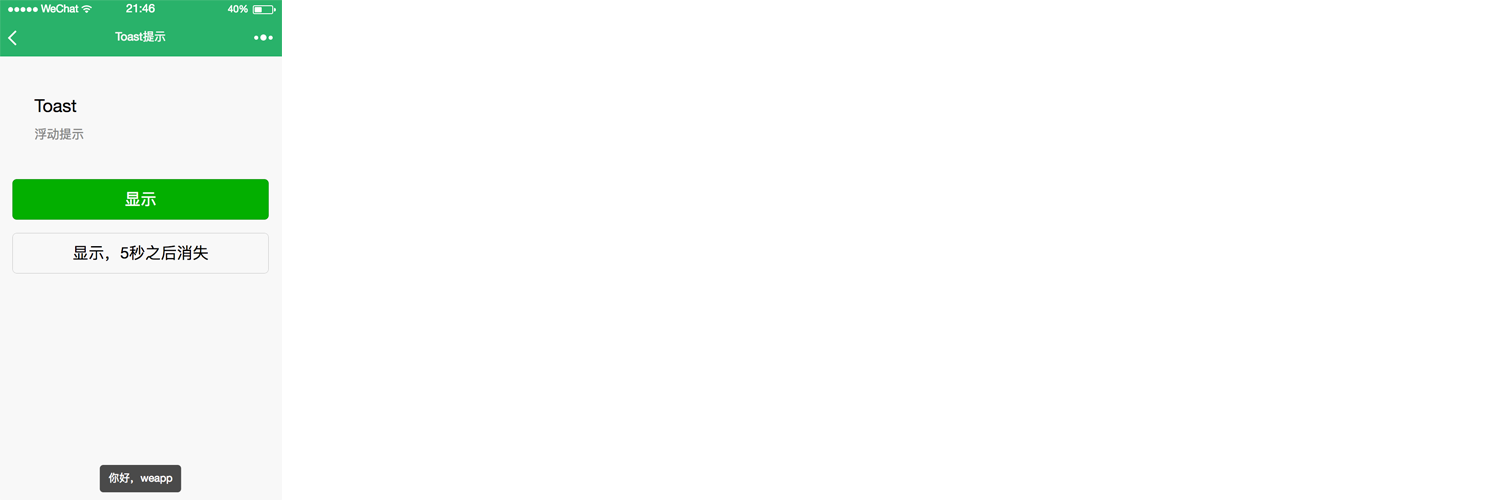
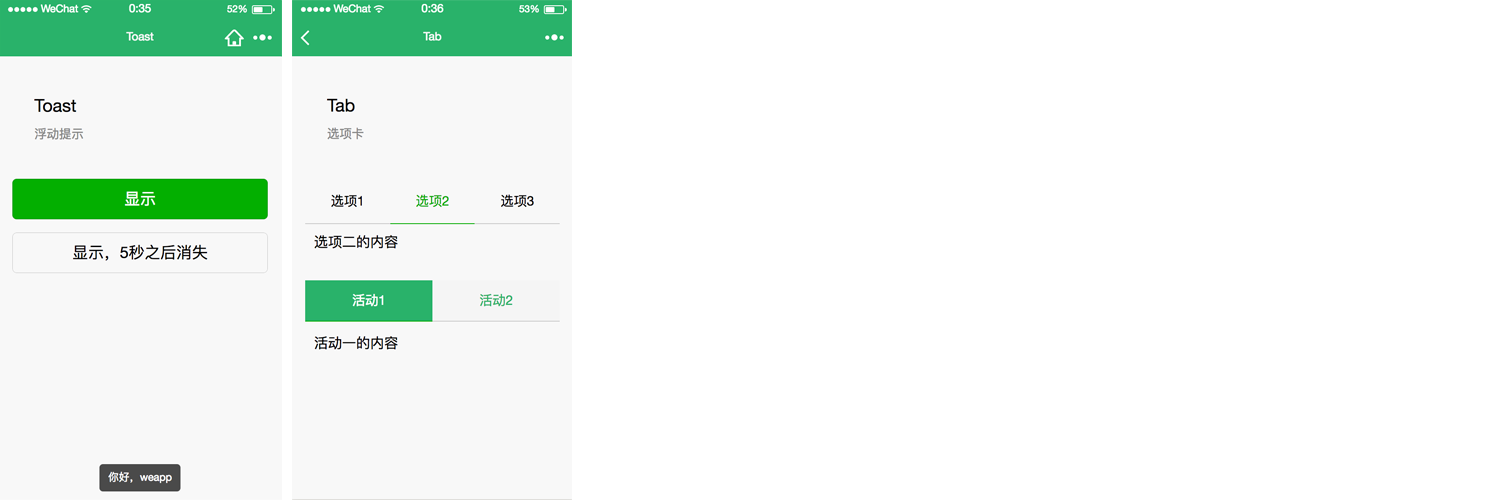
增加Tab组件

diff --git a/components/weapp/component.js b/components/weapp/component.js
@@ -1,0 +1,52 @@
+/**
+ * 父组件
+ * 每个组件的类可继承自父组件
+ * 封装所有组件使用的公共逻辑
+ */
+
+class Component{
+  constructor(pageScope, options) {
+    this.pageScope = pageScope;
+    this.options = options;
+
+    // 挂载当前组件到 Page 对象
+    this.pageScope[options.id] = this;
+  }
+  /**
+   * 获取组件的信息（根据参数event）
+   */
+  getComponentInfo(event) {
+    let dataset = event.currentTarget.dataset;
+    let idx = dataset.idx;
+    let componentId = dataset.componentId;
+    let componentInstance = this.pageScope[componentId];
+    let componentData = componentInstance.pageScope.data[componentId];
+
+    return {
+      dataset: dataset,
+      componentId: componentId,
+      componentData: componentData,
+      componentInstance: componentInstance
+    }
+  }
+  /**
+   * 设置组件的 data 数据
+   */
+  handlerComponentData(componentInstance, data) {
+    let id = componentInstance.options.id;
+
+    if (data) {
+      /* set */
+      let _data = Object.assign({}, this.handlerComponentData(componentInstance), data);
+
+      componentInstance.pageScope.setData({
+        [id]: _data
+      });
+    } else {
+      /* get */
+      return componentInstance.pageScope.data[id];
+    }
+  }
+};
+
+module.exports = Component;

diff --git a/components/weapp/tab/index.js b/components/weapp/tab/index.js
@@ -1,0 +1,49 @@
+import Component from '../component';
+
+class Tab extends Component{
+  constructor(pageScope, options) {
+    super(pageScope, options);
+
+    this.initData();
+    this.injectEvents();
+  }
+  /**
+   * 初始化数据
+   */
+  initData() {
+    let data = {
+      _id_: this.options.id,
+      activeIndex: this.options.activeIndex || 0,
+      className: this.options.className || '',
+      list: this.options.list
+    };
+
+    this.pageScope.setData({
+      [this.options.id]: data
+    });
+  }
+  /**
+   * 挂载组件的事件函数到 Page 对象
+   */
+  injectEvents(){
+    this.pageScope._TabAction = (event) => {
+      let { dataset, componentId, componentData, componentInstance} = this.getComponentInfo(event);
+      let idx = dataset.idx;
+
+      componentData.activeIndex = idx;
+
+      this.handlerComponentData(componentInstance, componentData);
+      
+      componentInstance.options.onChange && componentInstance.options.onChange(idx);
+    }
+  }
+  select(index) {
+    let componentData = this.handlerComponentData(this);
+
+    componentData.activeIndex = index;
+
+    this.handlerComponentData(this, componentData);
+  }
+}
+
+module.exports = Tab;

diff --git a/pages/weapp/tab/tab.js b/pages/weapp/tab/tab.js
@@ -1,0 +1,34 @@
+import weapp from '../../../components/weapp/index';
+
+Page({
+  onReady() {
+    weapp.inject(this);
+
+    weapp.Tab({
+      id: 'oTab1',
+      list: [{
+        title: '选项1'
+      }, {
+        title: '选项2'
+      }, {
+        title: '选项3'
+      }],
+      onChange(idx) {
+        console.log('选项-' + idx);
+      }
+    });
+
+    weapp.Tab({
+      id: 'oTab2',
+      className: 'weapp-tab',
+      list: [{
+        title: '活动1'
+      }, {
+        title: '活动2'
+      }],
+      onChange(idx) {
+        console.log('活动-' + idx);
+      }
+    });
+  }
+})

diff --git a/components/weapp/index.js b/components/weapp/index.js
@@ -1,8 +1,10 @@
 /**
  * 引入封装的组件
  */
+
 let components = {
-  Toast: require('./toast/index')
+  Toast: require('./toast/index'),
+  Tab: require('./tab/index')
 };
 
 let weapp = {};
@@ -13,7 +15,7 @@ weapp.inject = (pageScope) => {
 
     if (typeof componentObject === 'function') {
       // 类
-      weapp[attr] = (pageScope) => new componentObject(pageScope);
+      weapp[attr] = (options) => new componentObject(pageScope, options);
     }
     else if (typeof componentObject === 'object') {
       // 单例

diff --git a/pages/index/index.js b/pages/index/index.js
@@ -3,8 +3,11 @@ import common from '../../assets/js/common';
 Page({
   data: {
     components: [{
-      title: 'Toast浮动提示',
+      title: 'toast 浮动提示',
       url: '/pages/weapp/toast/toast'
+    }, {
+        title: 'tab 选项卡',
+      url: '/pages/weapp/tab/tab'
     }]
   },
   onLoad(){

diff --git a/components/weapp/toast/index.js b/components/weapp/toast/index.js
@@ -4,7 +4,7 @@ let Toast = {
    */
   defaults: {
     timer: null,
-    delay: 2000
+    delay: 1500
   },
   /**
    * 显示

diff --git a/README.md b/README.md
@@ -1,10 +1,10 @@
 # weapp-components
 **微信小程序组件封装（持续更新中...）**
 
-此项目封装一些小程序组件，未使用到第三方框架，您可以很好的使用全部的组件或者单独集成某个组件到自己项目中。另外也对小程序的一些小功能进行了封装，方便开发使用。
+此项目封装一些小程序组件，您可以使用全部的组件或者单独集成某个组件到自己项目中。另外也对小程序的一些小功能进行了封装，方便开发使用。
 
 
-![Toast浮动提示](./assets/images/desc/components.png)
+![WeAPP组件](./assets/images/desc/components.png)
 
 
 ## 目录结构
@@ -21,8 +21,16 @@
 * `README.md` ------- 项目说明
 
 
+## 特点
+* 面向对象组件开发，可配置、可扩展、可复用
+* 使用ES6代码特性
+* 小程序API的二次封装，如转发分享
+* 公共方法的封装，如URL参数转换
+
+
 ## WeAPP组件
-* Toast浮动提示
+* Toast 浮动提示
+* Tab 选项卡
 
 
 ## 公共方法的封装`common.js`
@@ -31,7 +39,7 @@
 * [unparam 将url字符串解析成对象](#unparam-将url字符串解析成对象) 
 
 
-##### share 页面转发分享
+#### share 页面转发分享
 除去每个页面的繁杂配置，使用起来更加简单高效，支持页面传递参数 options
 ```javascript
   import common from '../../assets/js/common';
@@ -42,7 +50,7 @@
 ```
 
 
-##### param 将对象解析成url字符串
+#### param 将对象解析成url字符串
 ```javascript
   import common from '../../assets/js/common';
 
@@ -62,7 +70,7 @@
 ```
 
 
-##### unparam 将url字符串解析成对象
+#### unparam 将url字符串解析成对象
 与`common.param`使用相反
 ```javascript
   import common from '../../assets/js/common';
@@ -77,10 +85,12 @@
 ```
 
 
-## 第三方库目前使用到
+## 第三方UI库目前使用到
+字体图标使用到FontAwesome，CSS组件样式使用WeUI
+
 * font-awesome (4.7) <https://github.com/FortAwesome/Font-Awesome>
 * weui-wxss <https://github.com/Tencent/weui-wxss>
 
 
 ## License
-[![](https://badges.frapsoft.com/os/mit/mit.png?v=103)](https://opensource.org/licenses/mit-license.php) 
+[![](https://badges.frapsoft.com/os/mit/mit.png?v=103)](https://opensource.org/licenses/mit-license.php) [MIT](https://opensource.org/licenses/MIT)，享受开源的乐趣。
